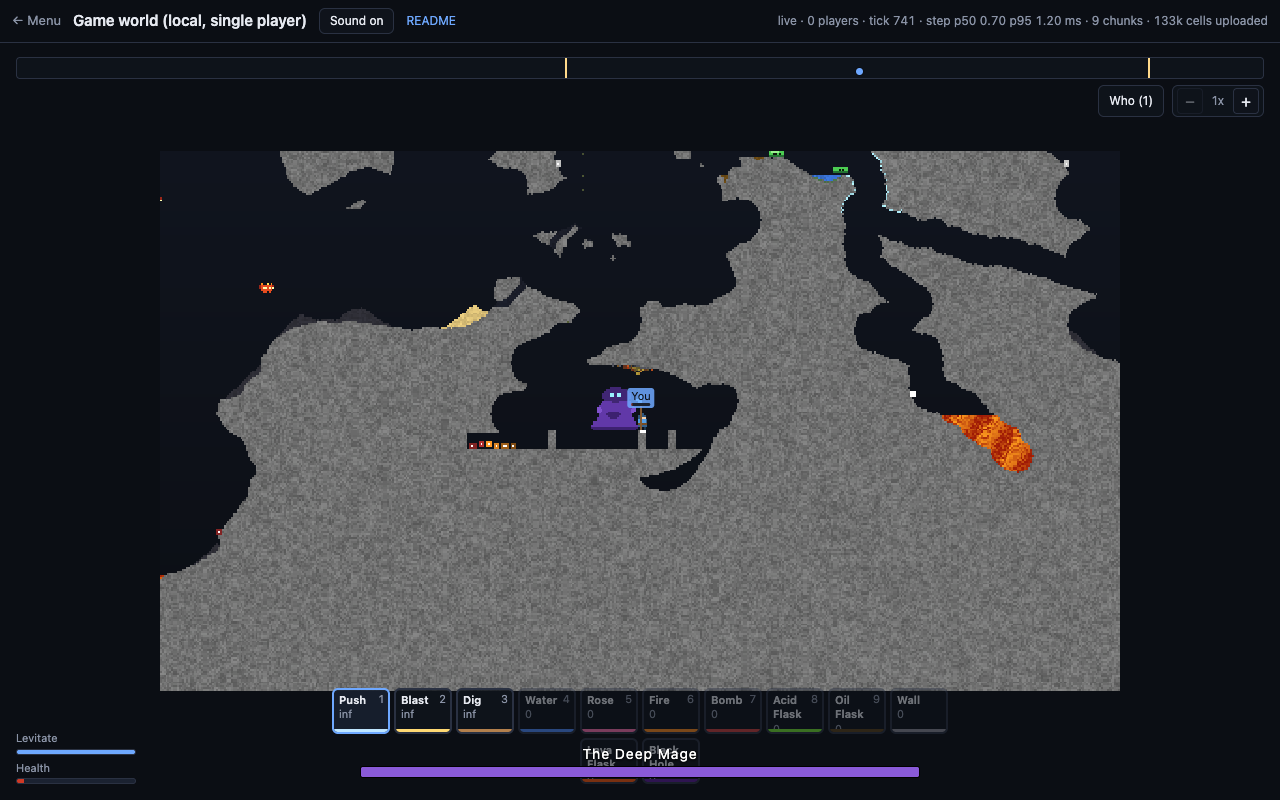
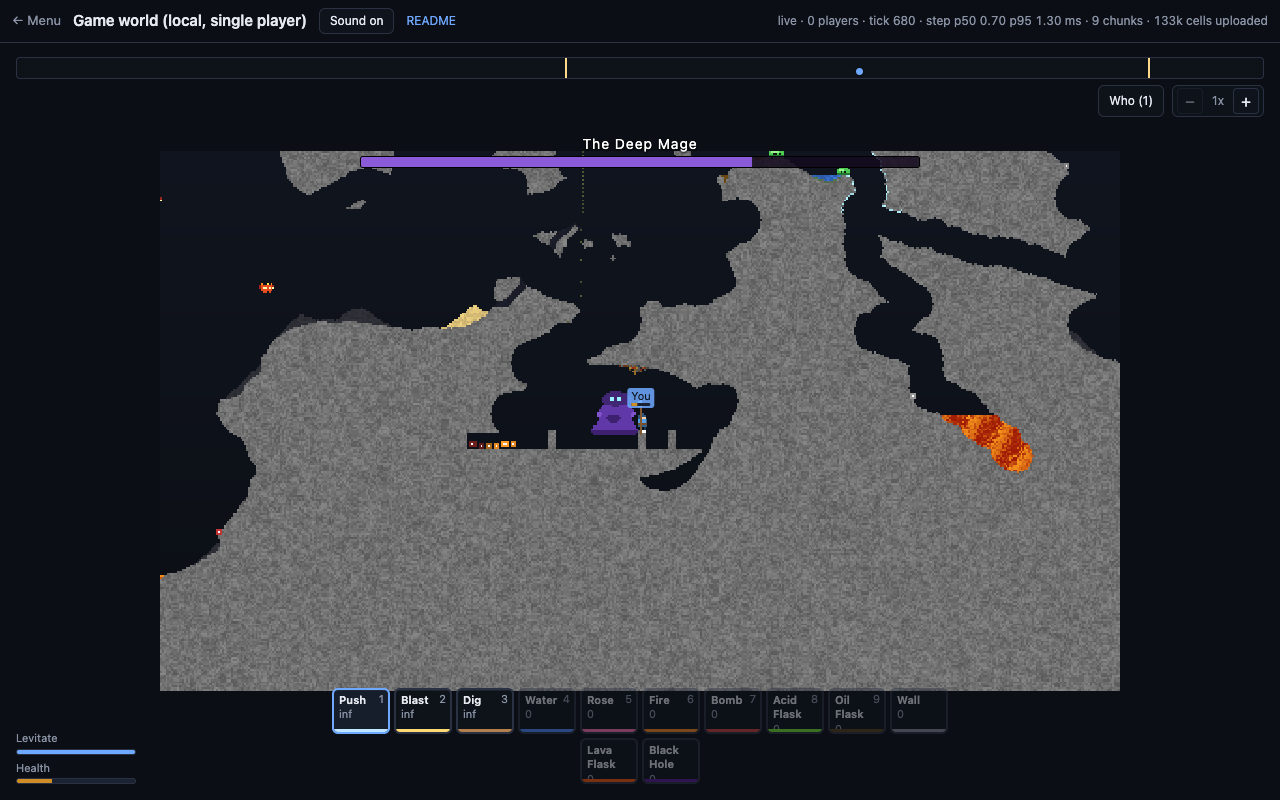
F6 review fixes: reseal the arena floor after traversal repair, Survival traversal and seed-sweep tests, browser D2 phase-3 assert, D7 compares the grid, summon-cap test, boss bar off the spell bar, salts moved

diff --git a/client/index.html b/client/index.html
@@ -74,7 +74,7 @@
     canvas.dim { filter: brightness(.45) saturate(.7); }
     #death { position: absolute; left: 50%; top: 42%; transform: translate(-50%, -50%); pointer-events: none; font-size: 22px; font-weight: 700; color: #fff; text-shadow: 0 2px 6px #000; text-align: center; max-width: 90%; }
     #death[hidden] { display: none; }
-    #bossBar { position: absolute; left: 50%; bottom: 14px; transform: translateX(-50%); width: min(70%, 560px); z-index: 4; text-align: center; pointer-events: none; }
+    #bossBar { position: absolute; left: 50%; top: 84px; transform: translateX(-50%); width: min(70%, 560px); z-index: 4; text-align: center; pointer-events: none; }
     #bossBar .n { display: block; color: #fff; font-size: 14px; letter-spacing: 1px; margin-bottom: 3px; text-shadow: 0 1px 3px #000; }
     #bossBar .t { height: 12px; background: rgba(20,10,30,0.85); border: 1px solid #000; border-radius: 3px; overflow: hidden; }
     #bossBar b { display: block; height: 100%; background: #8a5ad8; transition: width 0.15s; }

diff --git a/tests/determinism/browser.test.ts b/tests/determinism/browser.test.ts
@@ -118,10 +118,13 @@ describe("cross-engine", () => {
 
   // F6: the boss fight (phases, summons, the lava ring, fan and bombs) on every engine.
   const boss = bossScript();
-  const bossNode = run(readWasm(wasmPath), boss.script);
+  const bossNode = run(readWasm(wasmPath), boss.script, {}, { collectEvents: true });
   for (const [name, type] of engines) {
     it(`D2 with the boss: ${name} matches Node`, async () => {
       const out = await inBrowser(type, wasmPath, false, boss.path);
+      // The state hash (which includes the boss's phase, summons and bolts) is compared every tick, so equal hashes mean the
+      // engine reached the same phase 3 / death as Node; assert that Node's run really contains it (S3, review-f6).
+      expect(bossNode.events!.some((e) => (e.kind === 14 && e.b === 3) || (e.kind === 12 && e.c === 4))).toBe(true);
       expect(compare(bossNode, out.result, ["node", name])).toBeNull();
     });
   }

diff --git a/sim/tests/boss_gen.rs b/sim/tests/boss_gen.rs
@@ -146,3 +146,44 @@ fn normal_enemies_and_the_supply_pile_stay_out_of_the_arena() {
         }
     }
 }
+
+/// S1 (review-f6): the Survival twin of `traversable_to_every_band`: a 6x11 body walks from the surface to the target depth.
+#[test]
+fn survival_worlds_are_traversable_to_the_bottom_band_and_the_arena_floor_has_no_holes() {
+    let mut bad = Vec::new();
+    for size in 0u8..=2 {
+        for seed in 1..=12u64 {
+            let s = survival(size, seed);
+            let (w, h) = (s.grid.w as i32, s.grid.h as i32);
+            let target = 1380 * (h - 64) / (1536 - 64);
+            match sim::gen::box_reach(&s.grid, (s.grid.w / 2, 0), 6, 11) {
+                Some((_, y)) if (y + 11) as i32 >= target => {}
+                r => bad.push(format!("size {size} seed {seed}: reach {r:?} needs {target}")),
+            }
+            let a = s.arena.unwrap();
+            for x in a.cx - a.floor_half_width()..=a.cx + a.floor_half_width() {
+                if s.grid.mat[(a.floor_y * w + x) as usize] == 0 {
+                    bad.push(format!("size {size} seed {seed}: hole in the floor at {x}"));
+                    break;
+                }
+            }
+        }
+    }
+    assert!(bad.is_empty(), "{bad:#?}");
+}
+
+/// S2: no real seed may leave a Survival world without an arena (and so without a boss, which makes it unwinnable).
+#[test]
+fn every_survival_seed_has_an_arena_and_a_boss() {
+    let mut missing = Vec::new();
+    for (size, n) in [(0u8, 200u64), (1, 40), (2, 8)] {
+        for seed in 1..=n {
+            let s = survival(size, seed);
+            let boss = s.enemies.iter().filter(|e| e.kind == sim::tuning::ENEMY_BOSS).count();
+            if s.arena.is_none() || boss != 1 {
+                missing.push((size, seed));
+            }
+        }
+    }
+    assert!(missing.is_empty(), "{} worlds without an arena or boss: {missing:?}", missing.len());
+}

diff --git a/sim/src/gen.rs b/sim/src/gen.rs
@@ -332,6 +332,9 @@ pub fn generate_world(g: &mut Grid, seed: u64, with_arena: bool) -> World {
         clear_arena(g, a);
     }
     repair_traversal(g, seed, &sc);
+    if let Some(a) = &arena {
+        reseal_floor(g, a, &sc);
+    }
     let mut spots = pick_spots(g, seed, &sc, arena.as_ref());
     if let Some(a) = &arena {
         supply_pile(a, &mut spots);
@@ -445,6 +448,32 @@ fn clear_arena(g: &mut Grid, a: &Arena) {
             if is_liquid(g.mat[i]) || is_gas(g.mat[i]) || matches!(g.mat[i], SAND | GUNPOWDER) {
                 g.mat[i] = EMPTY;
             }
+        }
+    }
+}
+
+/// `repair_traversal` may cut a radius-6 tunnel through the arena floor. Seal the floor row (Rock, two rows deep) again, and
+/// keep the seal only if a body can still walk from the surface to the repair depth; otherwise undo it, so traversal always wins.
+fn reseal_floor(g: &mut Grid, a: &Arena, sc: &Scale) {
+    let w = g.w as i32;
+    let hw = a.floor_half_width();
+    let mut undo: Vec<(usize, u8)> = Vec::new();
+    for x in a.cx - hw..=a.cx + hw {
+        for y in a.floor_y..a.floor_y + 2 {
+            let i = (y * w + x) as usize;
+            if g.mat[i] != ROCK && g.mat[i] != BEDROCK && g.mat[i] != DIRT {
+                undo.push((i, g.mat[i]));
+                g.mat[i] = ROCK;
+            }
+        }
+    }
+    if undo.is_empty() {
+        return;
+    }
+    let ok = box_reach(g, (g.w / 2, 0), FIT_W, FIT_H).is_some_and(|(_, dy)| (dy + FIT_H) as i32 >= sc.repair_depth);
+    if !ok {
+        for (i, m) in undo {
+            g.mat[i] = m;
         }
     }
 }

diff --git a/sim/tests/boss_phases.rs b/sim/tests/boss_phases.rs
@@ -190,3 +190,27 @@ fn boss_work_is_bounded_in_phase_three_with_summons_alive() {
     assert!(worst > 0 && worst <= BOSS_WORK_BOUND, "work {worst}");
     assert!(worst > BOSS_WORK_BOUND / 2, "the bound must bite: halving it ({}) has to fail, work was {worst}", BOSS_WORK_BOUND / 2);
 }
+
+/// S5 (review-f6): the existing summon test never came near the cap (it passed with the cap at 8). Start with four summons
+/// alive and the counter at 4: no further summon may appear while they live, over five summon periods.
+#[test]
+fn with_four_summons_alive_no_fifth_is_ever_summoned() {
+    let mut s = fight();
+    set_hp(&mut s, BOSS_HP / 2);
+    let a = s.arena.unwrap();
+    let b = s.enemies[bi(&s)].id;
+    for k in 0..4u16 {
+        s.enemies.push(Enemy::new(b + 1 + k, ENEMY_IMP, (a.cx - 12 + 8 * i32::from(k)) * PX, (a.cy - 12) * PX));
+    }
+    let i = bi(&s);
+    s.enemies[i].hop_until = 4;
+    for _ in 0..(5 * BOSS_SUMMON_TICKS) {
+        s.step();
+        s.players[0].health = HEALTH_MAX;
+        for e in s.enemies.iter_mut().filter(|e| e.kind == ENEMY_IMP) {
+            e.hp = e.hp.max(1); // the four stay alive (a bolt cannot hurt them anyway)
+        }
+        assert!(s.enemies.iter().filter(|e| e.kind == ENEMY_IMP).count() <= BOSS_SUMMONS_ALIVE);
+    }
+    assert_eq!(s.enemies[bi(&s)].hop_until, 4, "no summon was made while four lived");
+}

diff --git a/sim/tests/boss_win.rs b/sim/tests/boss_win.rs
@@ -173,15 +173,17 @@ fn d7_sleeping_is_invisible_through_all_three_phases() {
             s.step();
             s.players[0].health = HEALTH_MAX;
         }
-        snapshot::write(&s)
+        (snapshot::write(&s), s.grid.mat.clone(), s.grid.aux.clone())
     };
     // enemies and the ring never depend on `grid.awake`; the grid itself may differ only through sleeping, which the
     // sim's own D7 pins, so compare the entity section (enemies, bolts, players)
     let (a, b) = (run(false), run(true));
-    let ent = |v: &[u8]| {
+    let ent = |v: &(Vec<u8>, Vec<u8>, Vec<u8>)| {
         let o = 4 + 2 + 32 + 8 + 16 + 4 + 2 + 2;
+        let v = &v.0;
         let n = u32::from_le_bytes(v[o..o + 4].try_into().unwrap()) as usize;
         v[o + 4..o + 4 + n].to_vec()
     };
     assert_eq!(ent(&a), ent(&b), "entities differ with chunk sleeping disabled");
+    assert!(a.1 == b.1 && a.2 == b.2, "the grid (mat or aux) differs with chunk sleeping disabled: the lava ring is sleep-dependent");
 }

diff --git a/sim/src/rng.rs b/sim/src/rng.rs
@@ -120,6 +120,11 @@ pub const SALT_STEM_BLOOM: u32 = 145;
 pub const SALT_SPAWN_X: u32 = 140;
 pub const SALT_PICKUP_SPELL: u32 = 141;
 pub const SALT_BURST: u32 = 142;
+pub const SALT_GEN_ARENA: u32 = 250;
+pub const SALT_GEN_ARENA_SIDE: u32 = 251;
+pub const SALT_GEN_ARENA_PILLAR: u32 = 252;
+pub const SALT_BOSS_SUMMON: u32 = 253;
+pub const SALT_BOSS_RING: u32 = 254;
 
 #[cfg(test)]
 mod tests {
@@ -143,8 +148,3 @@ mod tests {
         assert_eq!(mix(1), 0x5692161d100b05e5);
     }
 }
-pub const SALT_GEN_ARENA: u32 = 250;
-pub const SALT_GEN_ARENA_SIDE: u32 = 251;
-pub const SALT_GEN_ARENA_PILLAR: u32 = 252;
-pub const SALT_BOSS_SUMMON: u32 = 253;
-pub const SALT_BOSS_RING: u32 = 254;

diff --git a/docs/research/f6-worker-report.md b/docs/research/f6-worker-report.md
@@ -86,6 +86,19 @@
 - `docs/art/shots/f6-phase3.png`: red robe, bar about 18 percent red. Seen. (Both phase shots sit under "The party fell" because the dev avatar had died.)
 - A first attempt at `__devBossHp` did nothing (wrong byte offset into the snapshot's enemy record); fixed offset 13 and re-shot.
 
+### 8. Review fix pass (review-f6.md)
+- **S1 (red first, then fixed):** new `survival_worlds_are_traversable_to_the_bottom_band_and_the_arena_floor_has_no_holes` (sizes S/M/L, seeds 1-12). Run red before any fix: 6 holes found
+  (S seed 22, M seed 26, L seeds 11, 18, 25, 37), each a `repair_traversal` tunnel cutting the arena floor; traversal itself was fine everywhere. Fix: `reseal_floor` (floor row two deep back to
+  Rock after the repair, undone if it would break the walk to the repair depth). Green after.
+- **S2:** `every_survival_seed_has_an_arena_and_a_boss` over seeds 1-200 at S, 1-40 at M, 1-8 at L: **no seed was missing an arena or boss, so the test passes without a fix and was not shown red.**
+  I added no fallback because the failure never occurred in 248 seeds; `carve_arena` can still return None where no clear sky-open path point exists, and such a seed would have no boss.
+- **S3:** the browser D2 boss test now asserts Node's run holds a phase-3 event or the boss's death before comparing; the browser's per-tick state hash must equal Node's, so the engines reached the same fight.
+- **S4:** D7 boss test now also compares `grid.mat` and `grid.aux`. It passes (the ring is not sleep-dependent). Not shown red (no sleep-dependent ring to stub).
+- **S5 (stubs, then reverted):** `round_won` forced false: `a_scripted_player_kills...` and `the_boss_dying_on_the_tick...` FAILED. Id formula broken (`id = boss id + 1`): `phase_two_summons_..._sorted_unique_ids` FAILED.
+  `BOSS_SUMMONS_ALIVE` 8: **the existing test still passed (weak)**, so I added `with_four_summons_alive_no_fifth_is_ever_summoned`; with the cap at 8 it FAILED, with 4 it passes. All stubs reverted.
+- **HUD:** boss bar moved from the bottom (it covered the Lava Flask and Black Hole slots) to just under the minimap, above the canvas (`top: 84px`). `docs/art/shots/f6-arena-boss-hud.png` re-taken at 1280x800 and looked at: bar and name clear of the minimap and the spell bar, all 12 slots visible.
+- **Nits:** salts 250-254 moved above `mod tests`; `ENEMY_MAX_HP` already had its kind 4 entry (800).
+
 ## Counts and arena
 - Arena radii: S 40x24, M 56x32, L 70x40. L seed 1: 51 normal enemies + boss; with 4 summons alive 56 of 64.
 - Work maximum: 1226 cells per tick (boss phase 3, 4 summons).
